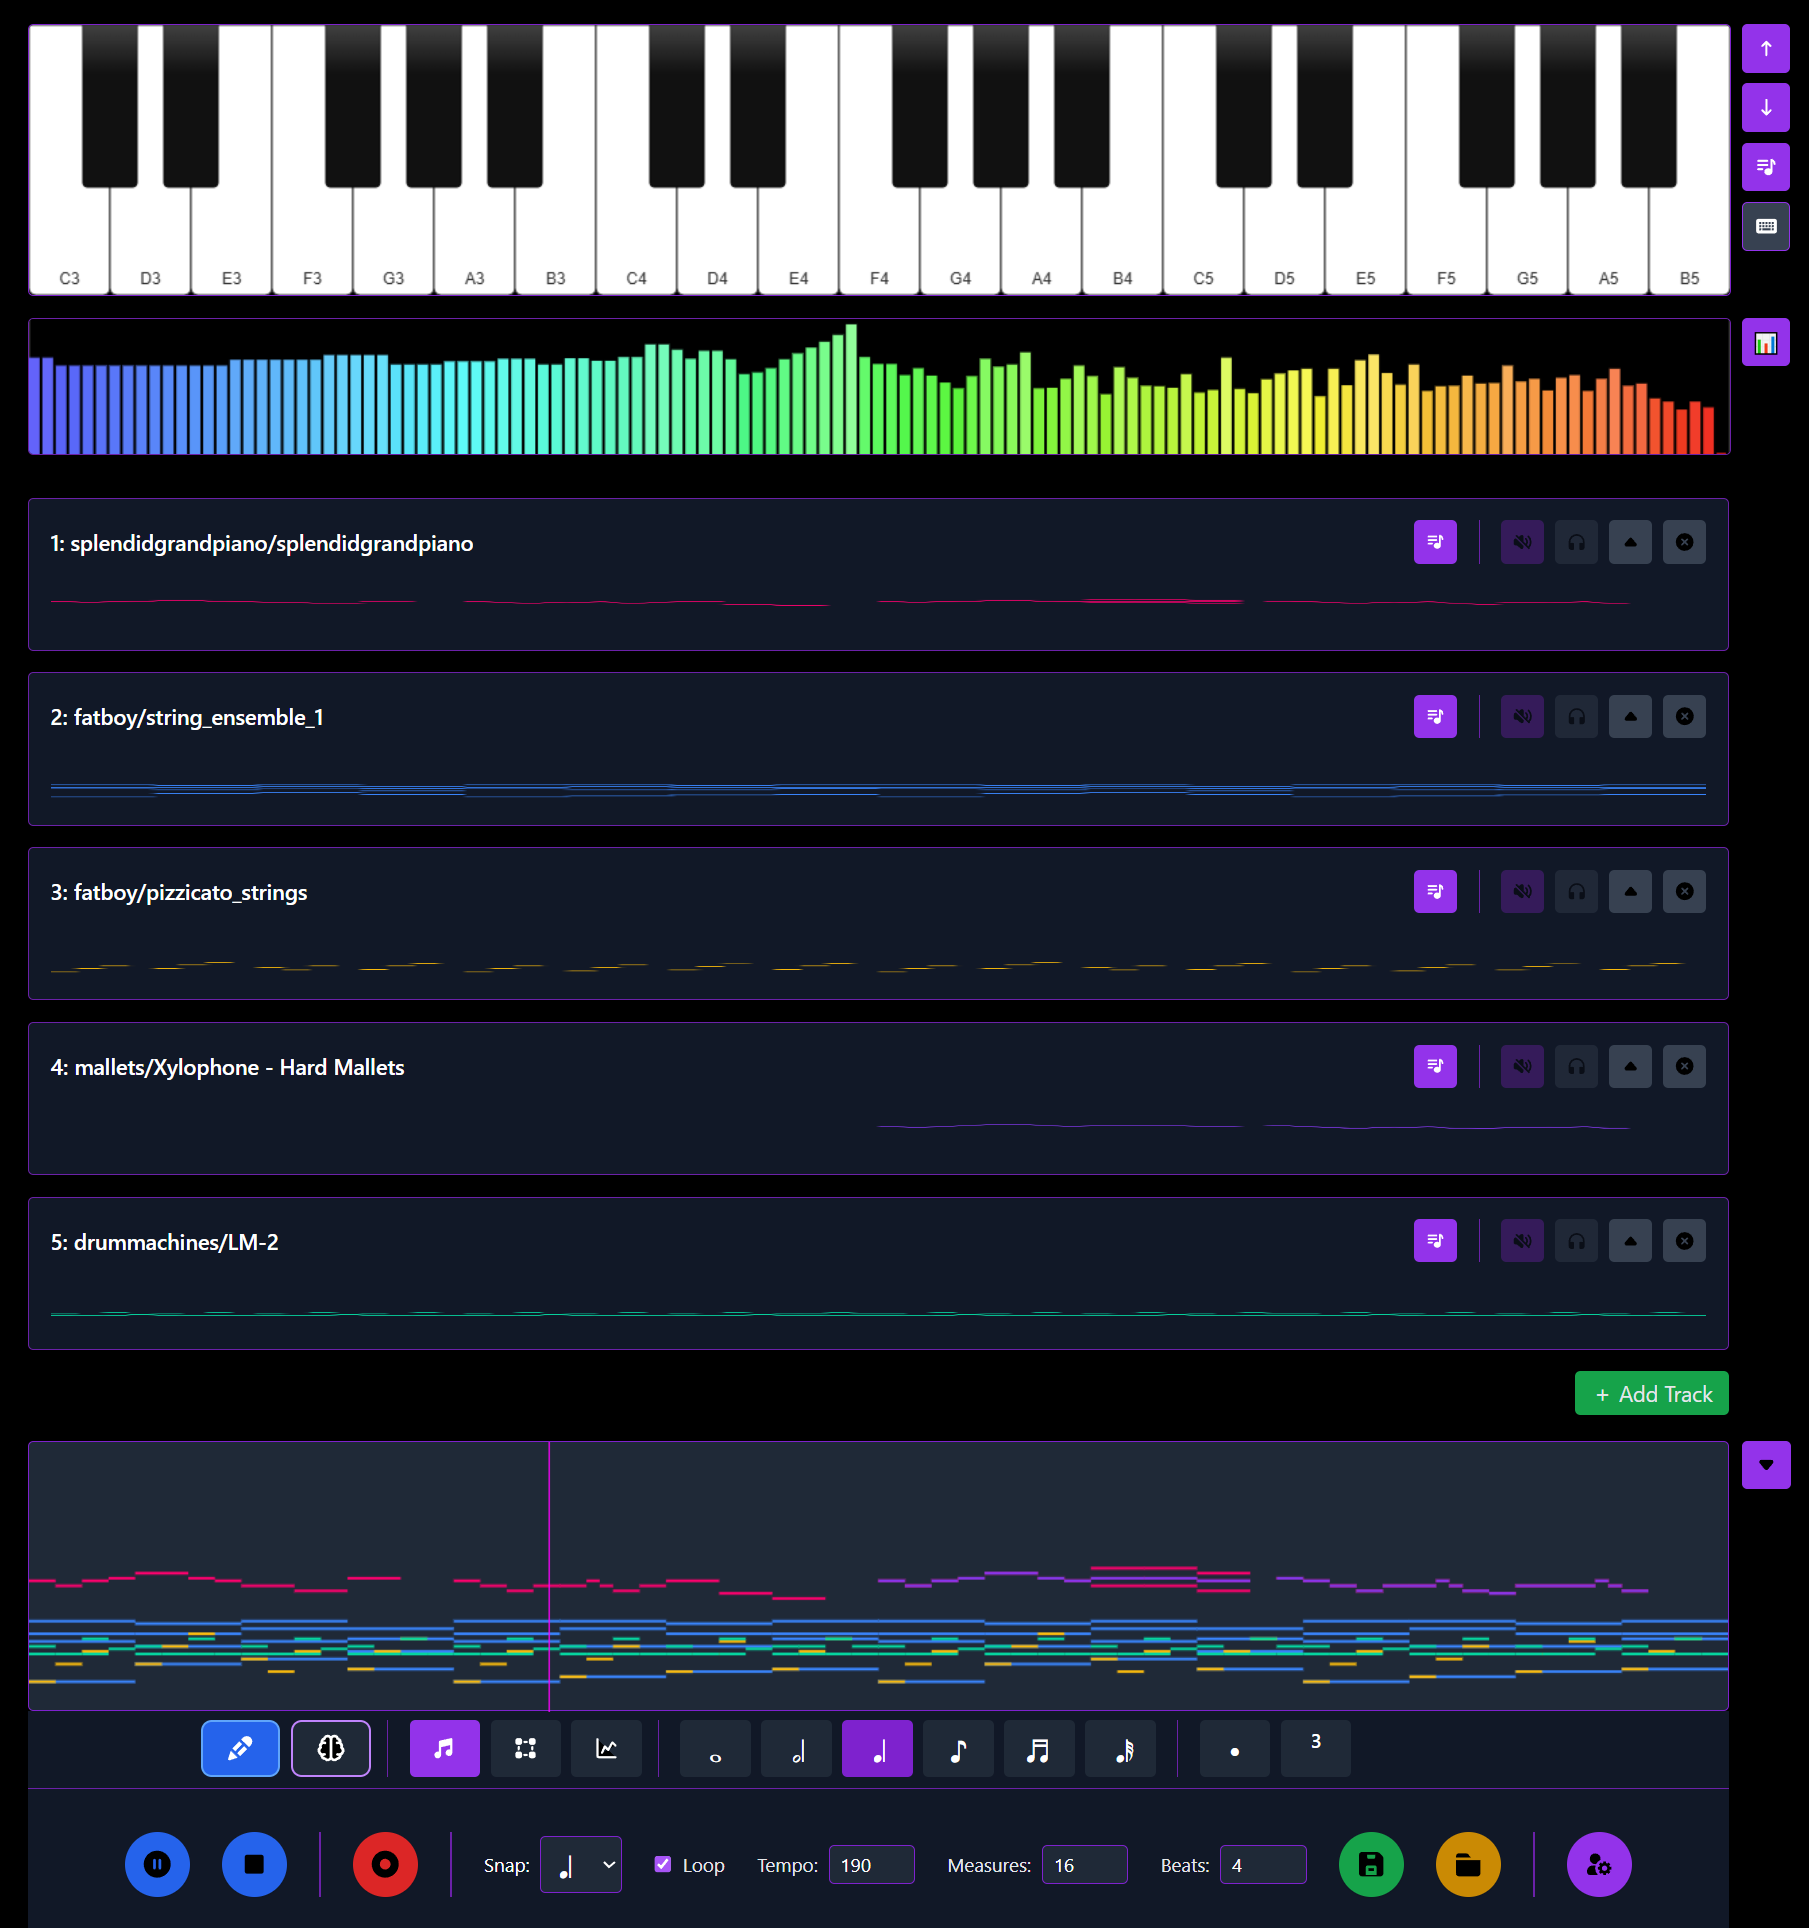
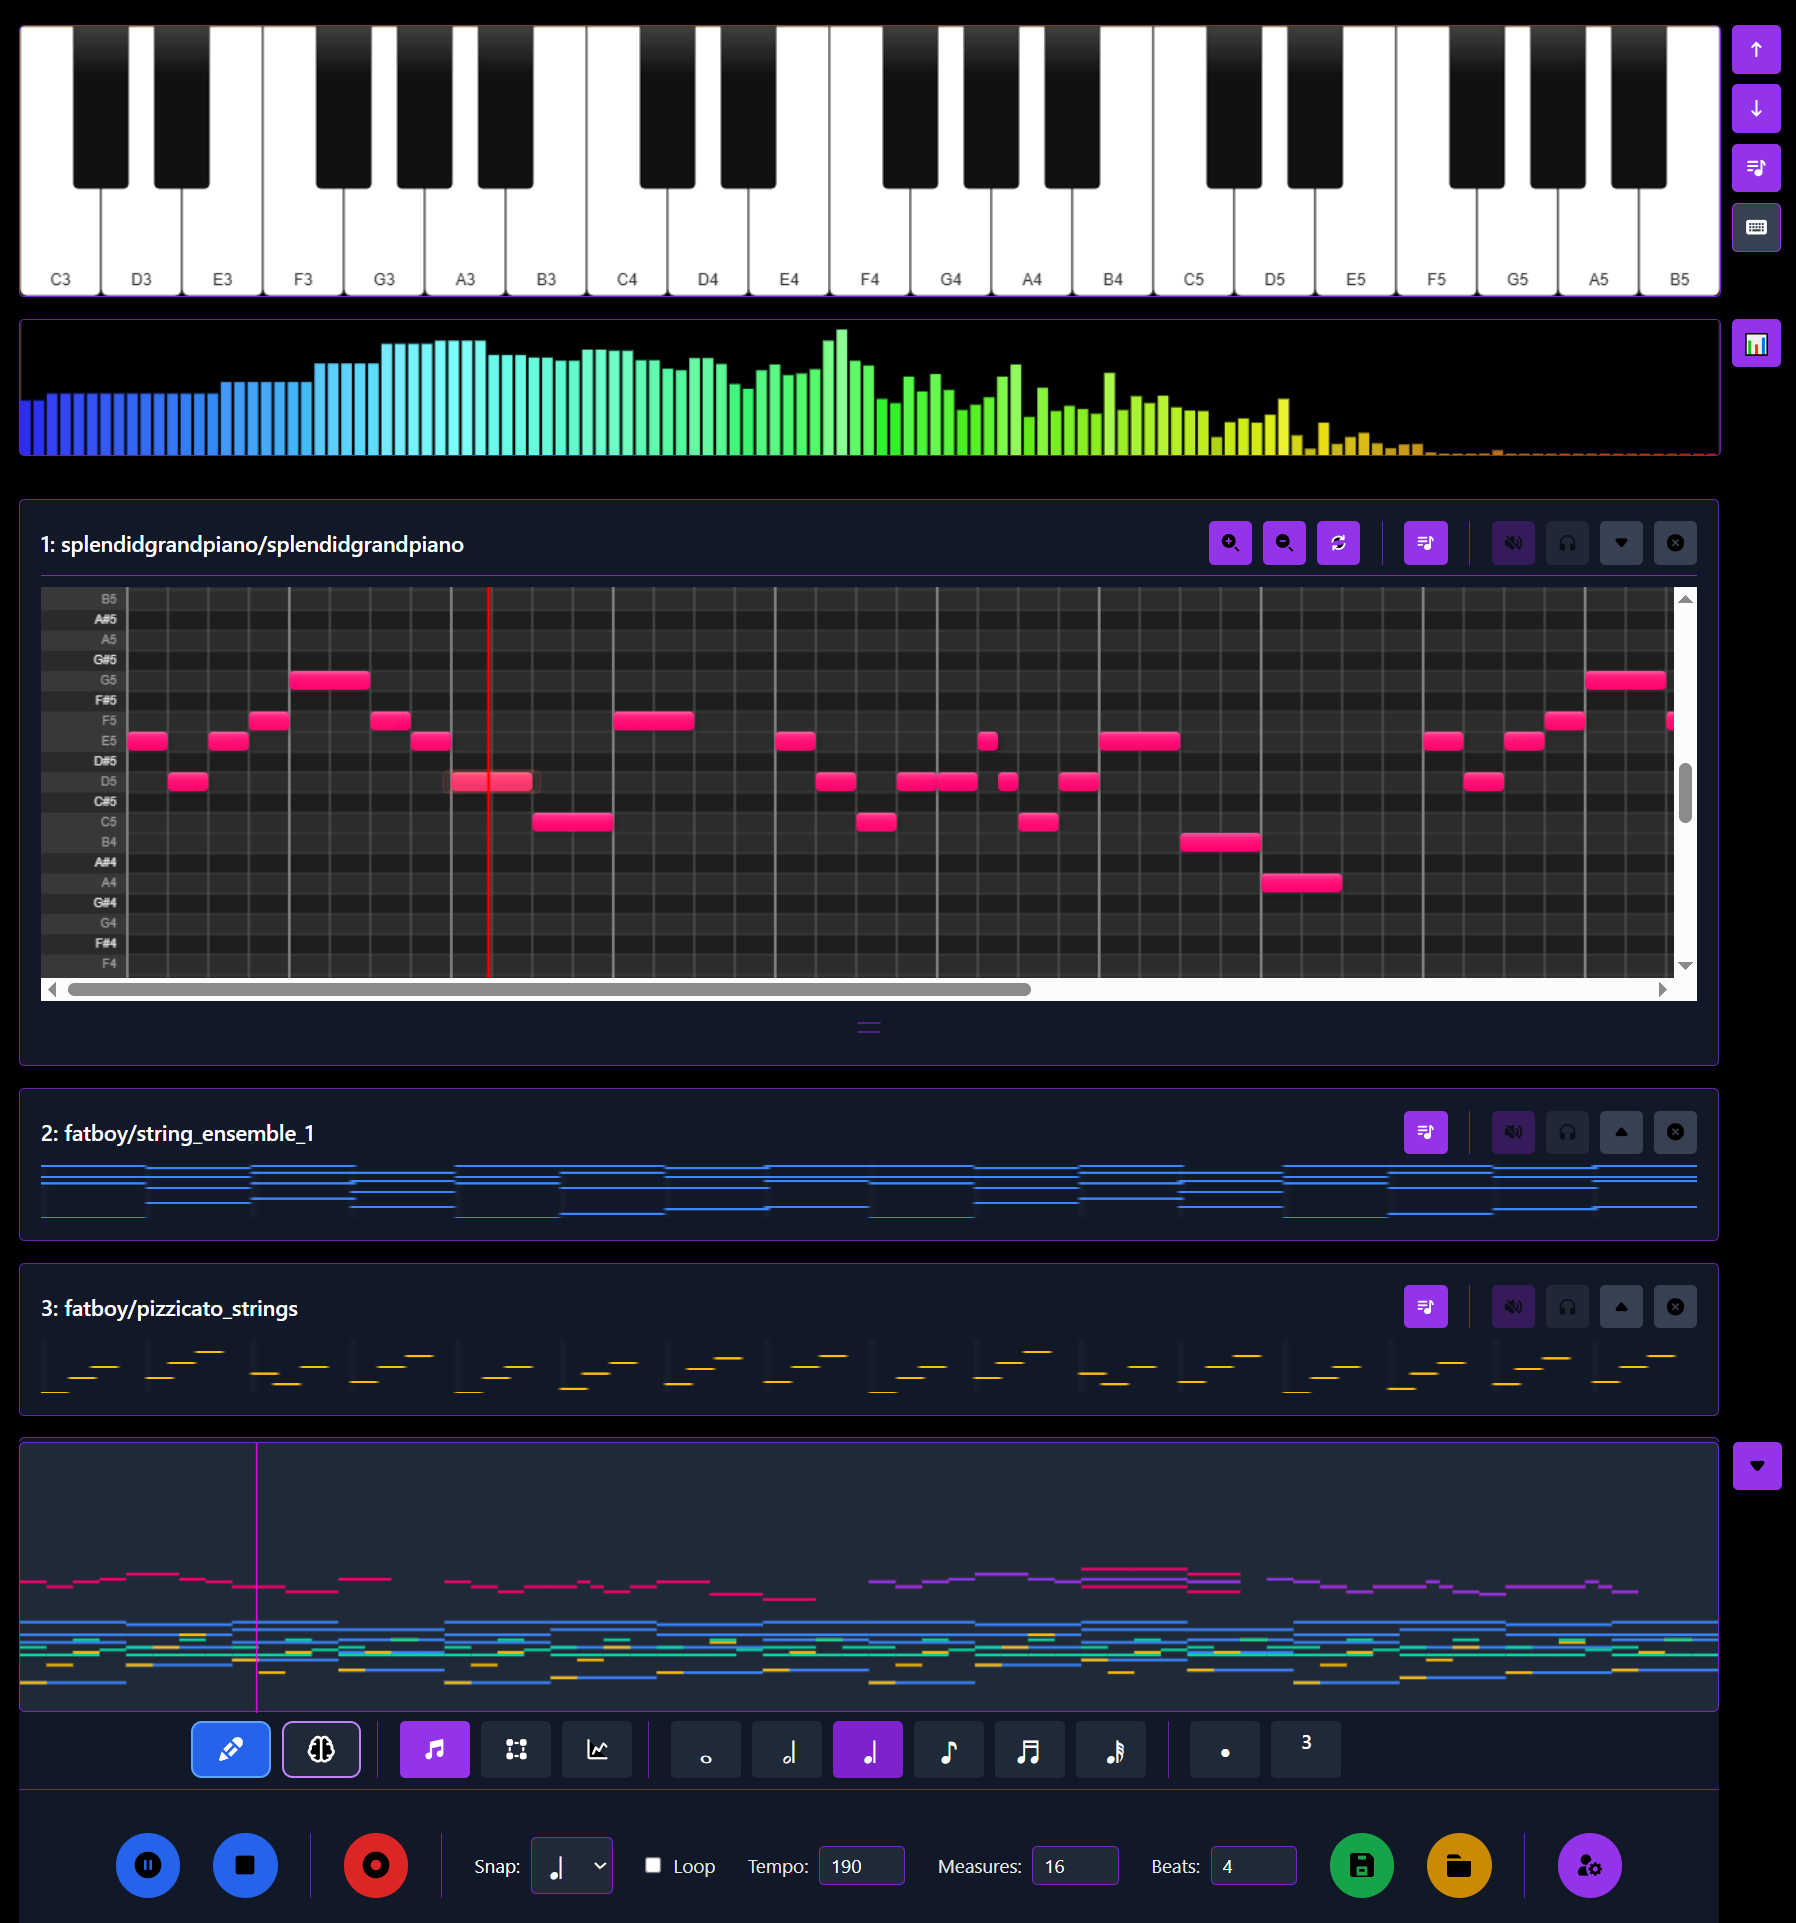
Improve snapping

diff --git a/src/sequencer/mini-contour.js b/src/sequencer/mini-contour.js
@@ -1,11 +1,12 @@
 // sequencer/mini-contour.js
 import { pitchToMidi } from "./grid/helpers/geometry.js";
-import { getTotalBeats } from "./transport.js";
 import { TRACK_COLORS } from "./grid/helpers/sequencerColors.js";
-
+import { getTotalBeats, getTimeSignature, getTotalMeasures } from "./transport.js";
 
 export function drawMiniContour(canvas, notes, config, colorIndex = 0) {
   const ctx = canvas.getContext('2d');
+  ctx.imageSmoothingEnabled = false;
+
   const W = canvas.width;
   const H = canvas.height;
   ctx.clearRect(0, 0, W, H);
@@ -17,28 +18,69 @@ export function drawMiniContour(canvas, notes, config, colorIndex = 0) {
 
   const totalBeats = getTotalBeats();
 
-  // 🎯 Scan actual used notes
+  // 🎯 Determine pitch range from actual notes
   const midiNotes = notes.map(note => pitchToMidi(note.pitch));
-  const minUsedMidi = Math.min(...midiNotes);
-  const maxUsedMidi = Math.max(...midiNotes);
+  let minUsedMidi = Math.min(...midiNotes);
+  let maxUsedMidi = Math.max(...midiNotes);
+  let pitchRange = Math.max(1, maxUsedMidi - minUsedMidi);
+  
+  // 🔥 Snap pitch range so that H / pitchRange is integer
+  while (H % pitchRange !== 0) {
+    maxUsedMidi++; // Expand upwards
+    pitchRange = maxUsedMidi - minUsedMidi;
+  }
+  
+  const blockH = H / pitchRange; // perfect, integer
 
-  // 🎯 Fallback if somehow identical
-  const pitchRange = Math.max(1, maxUsedMidi - minUsedMidi);
-
-  const blockH = Math.max(2, H / pitchRange);
-
+  // 🎼 Draw note contours (snap to integer pixels)
   for (const note of notes) {
-    const x = (note.start / totalBeats) * W;
-    const w = Math.max(1, (note.duration / totalBeats) * W);
-
+    const rawX = (note.start / totalBeats) * W;
+    const rawW = (note.duration / totalBeats) * W;
     const midi = pitchToMidi(note.pitch);
-    const norm = (midi - minUsedMidi) / pitchRange; // ⬅ relative to used range
-    const y = H - norm * H - blockH / 2;
+    const norm = (midi - minUsedMidi) / pitchRange;
+    const rawY = H - norm * H - blockH / 2;
+
+    const x = Math.round(rawX);
+    const w = Math.max(1, Math.round(rawW));
+    const y = Math.round(rawY);
 
     ctx.fillRect(x, y, w, blockH);
   }
-}
 
+  // 📏 Draw measure markers (dynamic density, clean + minimal)
+  const beatsPerMeasure = getTimeSignature();
+  const totalMeasures = getTotalMeasures();
+
+  ctx.save();
+
+  let drawEvery = 1;
+  if (totalMeasures > 256) drawEvery = 16;
+  else if (totalMeasures > 128) drawEvery = 8;
+  else if (totalMeasures > 32)  drawEvery = 4;
+
+  for (let m = 0; m <= totalMeasures; m++) {
+    if (m % drawEvery !== 0) continue;
+
+    const beat = m * beatsPerMeasure;
+    const rawX = (beat / totalBeats) * W;
+    const x = Math.round(rawX) + 0.5;
+
+    ctx.beginPath();
+    ctx.moveTo(x, 0);
+    ctx.lineTo(x, H);
+
+    const strong = drawEvery === 1 || m % (drawEvery * 2) === 0;
+
+    ctx.strokeStyle = strong
+      ? 'rgba(255, 255, 255, 0.12)'
+      : 'rgba(255, 255, 255, 0.04)';
+    ctx.lineWidth = 0.2;
+    ctx.stroke();
+  }
+
+  ctx.restore();
+
+}
 
 export function drawGlobalMiniContour(canvas, sequencers) {
   const ctx = canvas.getContext('2d');
@@ -68,6 +110,8 @@ export function drawGlobalMiniContour(canvas, sequencers) {
       const y = H - norm * H - blockH / 2;
       ctx.fillRect(x, y, w, blockH);
     }
+
+    
   });
 }
 

diff --git a/src/playhead/global-playhead-interaction.js b/src/playhead/global-playhead-interaction.js
@@ -7,15 +7,17 @@ import {
   resumeTransport
 } from '../sequencer/transport.js';
 import { sequencers } from '../setup/sequencers.js';
+import { getSnappedBeat } from '../sequencer/grid/helpers/geometry.js';
+import { config } from '../setup/sequencers.js';
 
 let isDragging = false;
 let canvas = null;
-let config = null;
+let globalConfig = null;
 let wasAutoPaused = false;
 
-export function initGlobalPlayheadInteraction(targetCanvas, globalConfig) {
+export function initGlobalPlayheadInteraction(targetCanvas, targetConfig) {
   canvas = targetCanvas;
-  config = globalConfig;
+  globalConfig = targetConfig;
 
   canvas.addEventListener('mousedown', onMouseDown);
   window.addEventListener('mousemove', onMouseMove);
@@ -50,19 +52,25 @@ function onMouseUp() {
 }
 
 function updatePlayheadFromEvent(e) {
-    const rect = canvas.getBoundingClientRect();
+  const rect = canvas.getBoundingClientRect();
+
+  // ✅ Device-pixel aware scaling
+  const scaleX = canvas.width / rect.width;
+  let x = (e.clientX - rect.left) * scaleX;
+
+  // Clamp x to canvas width
+  x = Math.max(0, Math.min(canvas.width, x));
+
+  const totalBeats = getTotalBeats();
+  const unsnappedBeat = (x / canvas.width) * totalBeats;
   
-    // ✅ Device-pixel aware scaling
-    const scaleX = canvas.width / rect.width;
-    let x = (e.clientX - rect.left) * scaleX;
+  // Apply snapping using the current config settings
+  const snappedBeat = getSnappedBeat(unsnappedBeat, config);
   
-    // Clamp x to canvas width
-    x = Math.max(0, Math.min(canvas.width, x));
-  
-    const totalBeats = getTotalBeats();
-    const beat = (x / canvas.width) * totalBeats;
-  
-    setCurrentBeat(beat);
-    drawGlobalPlayhead(x);
-  }
+  // Convert snapped beat back to x position
+  const snappedX = (snappedBeat / totalBeats) * canvas.width;
+
+  setCurrentBeat(snappedBeat);
+  drawGlobalPlayhead(snappedX);
+}
   
